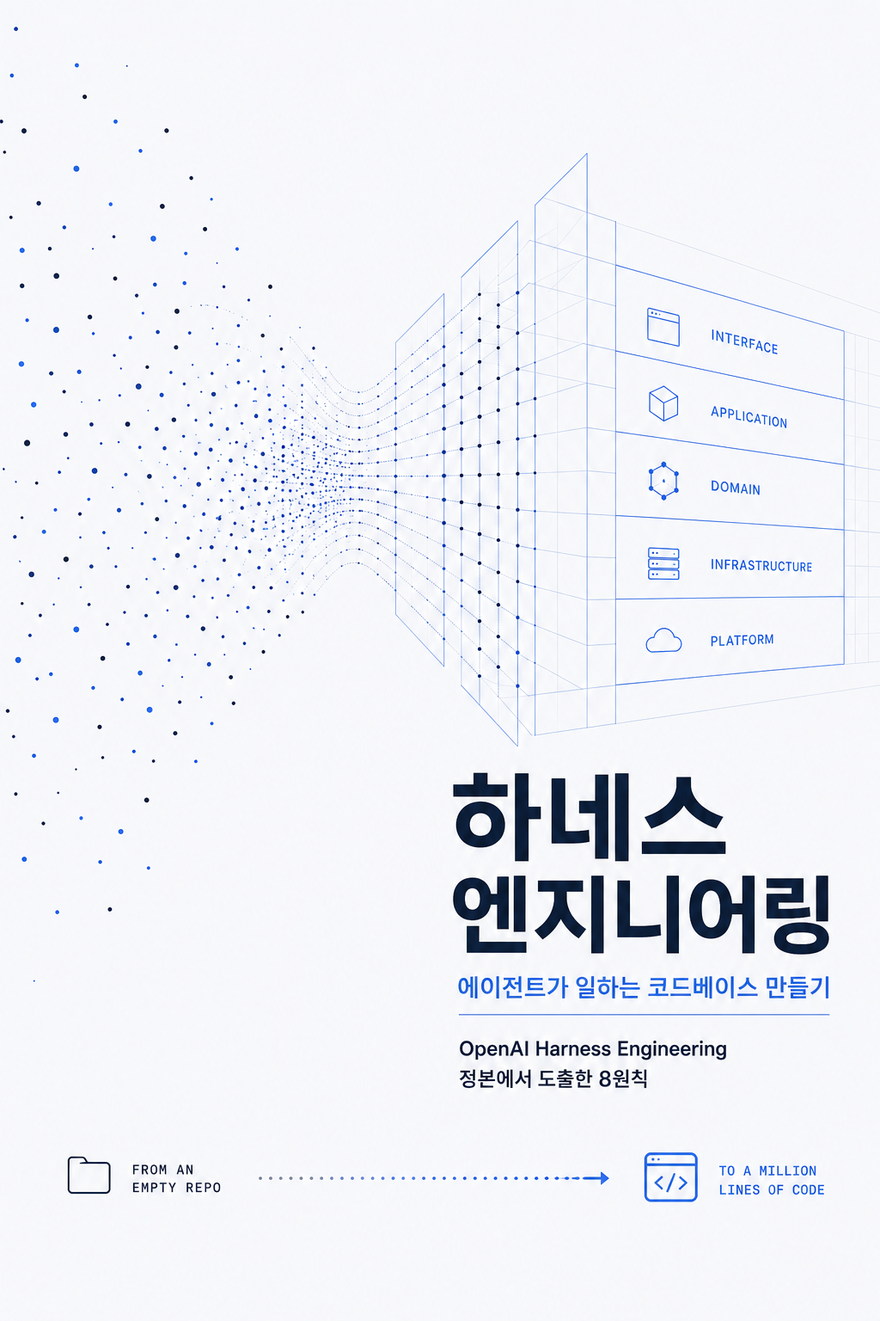
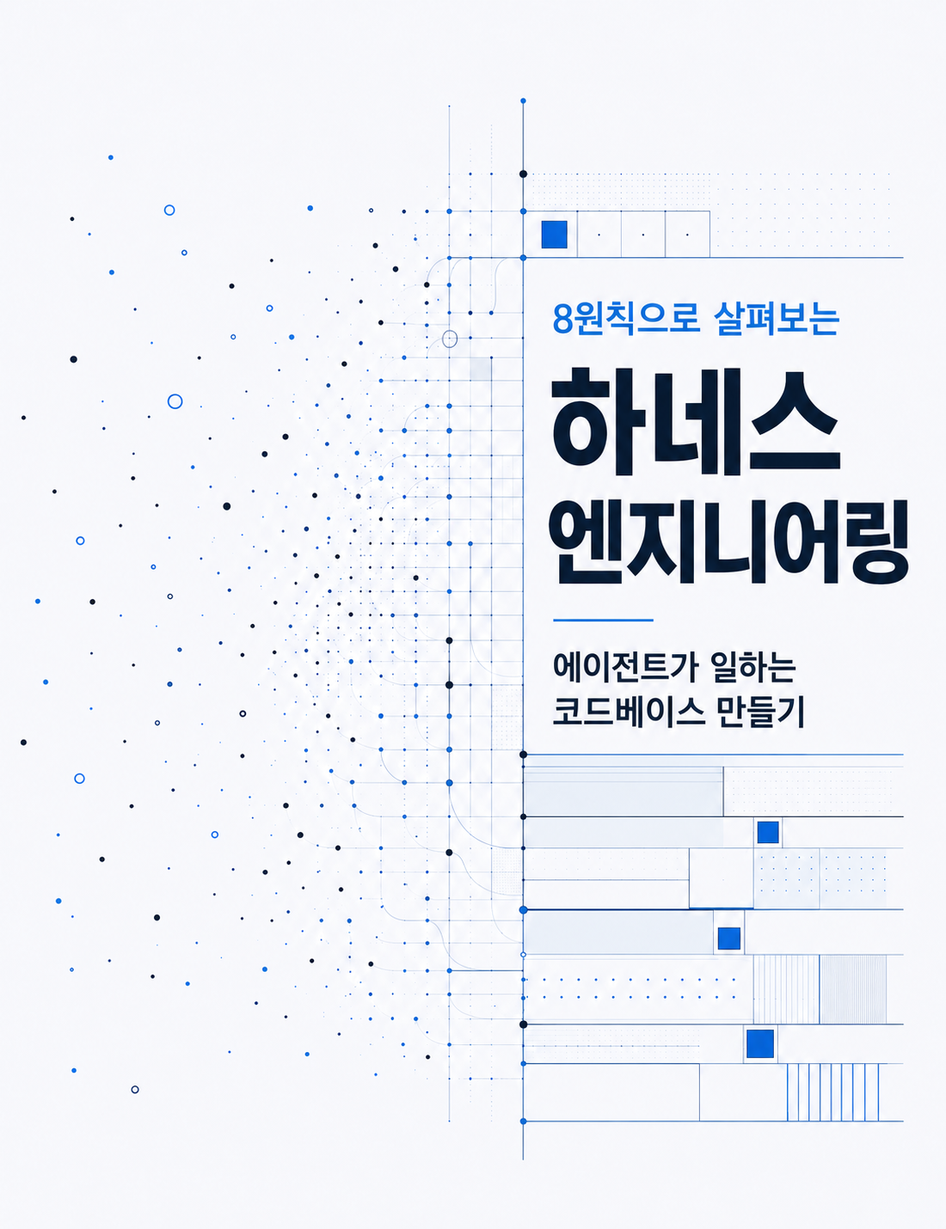
책 제목 '8원칙으로 살펴보는 하네스 엔지니어링'으로 통일 + ch01 윤문본 위키독스 재발행
- 제목 변경을 BOOK_PLAN·CLAUDE.md·toc.json·runbook·crosscheck 프롬프트에 일괄 반영
- ch01: 윤문(humanize) 재작업분 반영, ko-KR 원문 링크 추가, crosscheck/humanized 도장 갱신(06-04)
- 표지 프롬프트: 위키독스 10:13 비율 + 키커 2단 록업으로 개정, 표지 PNG 갱신
- verify.py: 공식 링크 정규식이 닫는 괄호를 URL에 포함하던 버그 수정

diff --git a/scripts/crosscheck.py b/scripts/crosscheck.py
@@ -53,7 +53,7 @@ SCHEMA = {
     },
 }
 
-PROMPT_TMPL = """너는 한국어 기술서 **"하네스 엔지니어링 — 에이전트가 일하는 코드베이스 만들기"**(개발자 대상)의 **독립 기술 검수자**다.
+PROMPT_TMPL = """너는 한국어 기술서 **"8원칙으로 살펴보는 하네스 엔지니어링 — 에이전트가 일하는 코드베이스 만들기"**(개발자 대상)의 **독립 기술 검수자**다.
 아래 원고의 **기술적 사실만** 검증하라. 문체·톤·맞춤법은 절대 언급하지 마라.
 
 검증 대상:
@@ -89,7 +89,7 @@ def run_codex(prompt: str, schema_path: str, out_path: str, model: str | None) -
     return proc.returncode, proc.stderr
 
 
-FACTS_PROMPT = """너는 한국어 기술서 "하네스 엔지니어링 — 에이전트가 일하는 코드베이스 만들기"의 **독립 기술 검수자**다.
+FACTS_PROMPT = """너는 한국어 기술서 "8원칙으로 살펴보는 하네스 엔지니어링 — 에이전트가 일하는 코드베이스 만들기"의 **독립 기술 검수자**다.
 아래는 이 책 전체가 사실의 기준으로 삼는 '검증된 사실 레지스트리'다.
 각 사실을 **공식 출처**(openai.com/index/harness-engineering, code.claude.com, modelcontextprotocol.io 등)에 비추어 검증하라.
 특히 하네스 엔지니어링 정본(OpenAI, Ryan Lopopolo, 2026-02-11)의 출처·저자·실험 사실, 그리고 8원칙의 이름·순서가 정본 절과 일치하는지 본다.

diff --git a/scripts/verify.py b/scripts/verify.py
@@ -50,7 +50,7 @@ DENYLIST = [
 OFFICIAL_DOMAINS = re.compile(
     r"https?://(?:openai\.com|"
     r"code\.claude\.com|docs\.claude\.com|modelcontextprotocol\.io|"
-    r"deepwiki\.com|www\.anthropic\.com)\S*")
+    r"deepwiki\.com|www\.anthropic\.com)[^\s)]*")
 
 
 def main():

diff --git a/manuscript/ch01-what-is-harness.md b/manuscript/ch01-what-is-harness.md
@@ -8,52 +8,55 @@ wikidocs_page_id: 363218
 parent_page_id: 363213
 official_links:
   - https://openai.com/index/harness-engineering/
+  - https://openai.com/ko-KR/index/harness-engineering/
   - https://code.claude.com/docs
   - https://modelcontextprotocol.io
 last_verified: 2026-06-02
 crosscheck: "pass"
-crosscheck_date: "2026-06-03"
+crosscheck_date: "2026-06-04"
 humanized: "pass"
-humanized_date: "2026-06-03"
+humanized_date: "2026-06-04"
 wikidocs_image: "applied"
 ---
 
 ## 이 장에서 배우는 것
 
-이 장을 끝내면 "하네스(harness)"가 무엇이고 왜 코딩 에이전트의 신뢰성을 좌우하는지 설명할 수 있습니다. 그리고 이 책 전체를 관통할 질문 하나를 손에 쥐게 됩니다 — *"에이전트가 실패할 때, 나는 프롬프트를 더 세게 써야 하는가, 아니면 에이전트가 일하는 환경을 고쳐야 하는가?"*
+이 장을 끝내면 "하네스(harness)"가 무엇이고, 코딩 에이전트의 신뢰성에 어떻게 영향을 주는지 설명할 수 있습니다. 그리고 이 책 전체를 관통할 질문 하나를 손에 쥐게 됩니다.
+
+_"에이전트가 실패할 때, 나는 프롬프트를 수정해야 하는가, 아니면 에이전트가 일하는 환경을 고쳐야 하는가?"_
 
 ## 핵심 개념
 
-**하네스란, 코딩 에이전트가 안정적으로 일할 수 있도록 설계한 환경 전체다.** 에이전트가 읽고 의지하는 기록 시스템(문서·스키마·계획), 실수를 빌드 단계에서 막는 기계적 불변식(린터·구조적 테스트), 에이전트가 자기 작업을 직접 검증하게 해주는 관측성, 그리고 실패를 스스로 고치게 하는 피드백 루프까지. 모델이 토큰을 뱉는 그 한 번의 호출은 *에이전트*의 몫이고, 그 에이전트가 헛돌지 않게 붙잡아주는 나머지가 전부 하네스입니다.
+**하네스란, 코딩 에이전트가 안정적으로 일할 수 있도록 설계된 환경 전체다.** 에이전트가 읽고 의지하는 기록 시스템(문서·스키마·계획), 실수를 빌드 단계에서 막는 기계적 불변식(린터·구조적 테스트), 에이전트가 자기 작업을 직접 검증하게 해주는 관측성, 그리고 실패를 스스로 고치게 하는 피드백 루프까지. 모델이 토큰을 뱉는 그 한 번의 호출은 *에이전트*가 사용하는 모델의 몫입니다. 하지만 그 모델이 기대대로 동작하게 만드는 일은 하네스가 떠맡습니다.
 
-`harness`는 원래 말에게 씌우는 **마구(馬具)** 입니다. 말의 힘 자체를 만들어내지는 않지만, 그 힘이 엉뚱한 데로 새지 않고 수레를 끄는 방향으로 향하게 잡아줍니다. 코딩 에이전트가 말이라면, 하네스는 그 생산력을 제품이 원하는 방향으로 채널링하는 마구입니다. 모델을 더 똑똑하게 만드는 일이 아니라, 똑똑한 모델이 *제대로 일할 환경*을 만드는 일입니다.
+**harness**는 말에게 씌우는 **마구(馬具)**라는 뜻입니다. 마구는 말의 힘 자체를 만들어내지는 않지만, 말의 힘이 엉뚱한 데로 새지 않고 수레를 끄는 방향으로 향하도록 잡아줍니다. 코딩 에이전트가 사용하는 모델이 말이라면, 하네스는 모델의 능력을 원하는 방향으로 제어해주는 마구인 셈입니다. 즉, 모델을 더 똑똑하게 만드는 일이 아니라, 똑똑한 모델이 *제대로 일할 환경*을 만드는 일입니다.
 
-이 책의 토대는 OpenAI가 공개한 **하네스 엔지니어링(Harness Engineering)** 보고입니다(Ryan Lopopolo, 2026). 한 팀이 빈 git 리포지터리에서 시작해 5개월 동안 사람이 코드 한 줄도 손으로 쓰지 않고 약 100만 줄짜리 제품을 출시했습니다. 모든 코드를 코딩 에이전트(Codex)가 작성했고, 수동 대비 약 1/10 시간이 걸렸다고 합니다. 그들이 내린 핵심 명제가 이 책의 출발점입니다.
+이 책의 토대는 OpenAI가 공개한 **하네스 엔지니어링(Harness Engineering)** 보고입니다(Ryan Lopopolo, 2026). OpenAI의 한 팀이 빈 리포지터리에서 시작해 5개월 동안 사람이 코드 한 줄도 직접 작성하지 않고 약 100만 줄짜리 코드로 이루어진 제품을 구축해 내부 베타로 출시하고 실제로 사용했습니다. 모든 코드를 코딩 에이전트(Codex)가 작성했고, 사람이 직접 코드를 작성하는것 대비 약 1/10 시간이 걸렸다고 합니다. 그들이 내린 핵심 명제가 이 책의 출발점입니다.
 
 > **사람이 조종하고, 에이전트가 실행한다(Humans steer, agents execute).**
 
-즉 사람의 일은 더 이상 코드를 타이핑하는 것이 아니라, **에이전트가 안정적으로 일할 환경을 설계하고, 의도를 명시하고, 피드백 루프를 거는 것**으로 옮겨갑니다. 이 책이 다루는 8원칙은 바로 그 환경, 하네스를 어떻게 설계해야 에이전트가 신뢰할 수 있게 일하는가에 대한 답입니다.
+즉 사람의 일은 더 이상 코드를 작성하는 것이 아니라, **에이전트가 안정적으로 일할 환경을 설계하고, 의도를 명시하고, 피드백 루프를 거는 것**으로 옮겨갑니다. 이 책이 다루는 8원칙은 바로 그 환경, 하네스를 어떻게 설계해야 에이전트가 신뢰할 수 있게 일하는가에 대한 답입니다.
 
-> **도출한 8원칙임을 밝혀둡니다.** OpenAI의 정본은 서술형 글이라 원칙을 번호로 매기지 않습니다. 이 책의 8원칙은 정본의 **원칙을 담은 절들을 선별해** 한 원칙씩 **도출**한 커리큘럼이며, 모든 원칙은 정본의 해당 절에 직접 접지합니다(정본 11개 절 중 8개에서 도출).
+> **8원칙은 OpenAI의 ["하네스 엔지니어링: 에이전트 우선 세계에서 Codex 활용하기"](https://openai.com/ko-KR/index/harness-engineering/)에서 도출했음을 밝혀둡니다.** 원문은 서술형 글이라 원칙을 번호로 매기지 않지만, 이 책의 원문에서 **원칙으로 정의할 수 있는 항목을 선별해** 총 8개의 원칙으로 도출했습니다. 각 원칙은 원문의 글과 매칭됩니다.
 
-![코딩 에이전트를 중심에 두고, 기록 시스템(원칙 3·4)·기계적 불변식(원칙 5)·관측성(원칙 2)·피드백 루프(원칙 1·7·8)가 그 둘레를 감싸는 환경이 하네스다. 모델의 한 번의 호출은 에이전트의 몫이고, 그 둘레가 전부 하네스다.](../assets/diagrams/chatgpt-renders/ch01-what-is-harness.ko.png)
+![코딩 에이전트의 모델을 중심에 두고, 기록 시스템(원칙 3·4)·기계적 불변식(원칙 5)·관측성(원칙 2)·피드백 루프(원칙 1·7·8)가 그 둘레를 감싸는 환경이 하네스입니다. 모델이 입력을 받아 토큰을 생성하는 것 주변이 모두 하네스가 됩니다.](../assets/diagrams/chatgpt-renders/ch01-what-is-harness.ko.png)
 
 ## 왜 중요한가
 
-코딩 에이전트 데모는 거의 항상 됩니다. "이 버그 고쳐줘", "이 기능 추가해줘"라고 하면 그럴듯한 PR이 돌아옵니다. 문제는 그 다음, 규모와 시간입니다.
+코딩 에이전트를 사용해 간단한 데모를 진행할 땐 항상 문제없는 결과를 만들어냅니다. 게다가 "OO 버그 고쳐줘", "ㅁㅁ 기능 추가해줘"라고 자연어로 요청하면 그럴듯하게 수정 후 PR이 생성됩니다. 문제는 그 다음, 규모와 시간이 더해졌을 때 발생합니다.
 
-환경 없이 에이전트에게 코드베이스를 계속 맡기면 이런 일이 벌어집니다:
+특히 잘 구축된 하네스 없이 에이전트에게 코드베이스를 계속 맡기면 이런 일이 벌어집니다:
 
-- 에이전트가 못 보는 곳(채팅 스레드·사람 머릿속·구글 독스)의 결정은 사실상 존재하지 않아, 매번 다른 가정 위에서 코드를 짠다.
-- 거대한 단일 지침 파일은 낡은 규칙들의 무덤이 되고, 에이전트는 무엇이 아직 사실인지 알 수 없다.
-- 문서로만 적어둔 규칙은 강제되지 않아, 무인 장시간 실행 동안 구조가 조용히 무너진다(드리프트).
-- 자기 작업을 검증할 눈(로그·화면·메트릭)이 없어, 에이전트는 고쳤다고 주장하지만 실제로 동작하는지 모른다.
+- 에이전트가 접근할 수 없는 곳(슬랙, 메일, 미팅, 문서)의 결정 사항을 모르기 때문에 매번 다른 가정 위에서 코드를 작성한다
+- 거대한 단일 지침 파일은 낡은 규칙들의 무덤이 되고, 에이전트는 무엇이 최신인지 모르게 된다.
+- 문서로만 적어둔 규칙은 강제되지 않아, 장시간 자율적으로 실행하게 되면 구조가 점진적으로 무너진다.
+- 자기 작업을 검증할 눈(로그·화면·메트릭)이 없어, 에이전트는 고쳤다고 주장하지만 동작을 보장하지 않는다.
 
-이건 모델이 약해서가 아닙니다. 정본의 표현을 빌리면, 초기 진척이 더뎠던 것은 _"Codex의 역량이 부족해서가 아니라 환경이 제대로 갖춰지지 않았기 때문"_ 이었습니다. 에이전트가 실패할 때 "더 분발하라"고 프롬프트를 조이는 대신, "어떤 역량(capability)이 빠졌는가"를 물어 환경을 고치는 것, 이 전환이 하네스 엔지니어링의 핵심입니다. 데모와 프로덕션을 가르는 것은 모델의 지능이 아니라, 그 지능이 일하는 환경의 견고함입니다.
+이건 모델이 덜 발전해서 벌어지는 일이 아닙니다. OpenAI의 원문 속 표현을 빌리면, 초기 진척이 더딘것은 _"Codex의 역량이 부족해서가 아니라 환경이 제대로 갖춰지지 않았기 때문"_ 입니다. 에이전트가 실패할 때 "더 분발하라"고 프롬프트를 수정하는 대신, 에이전트가 일을 잘하기 위해 "어떤 역량(capability)이 필요한지"를 물어 환경을 고치는 것, 이 전환이 하네스 엔지니어링의 핵심입니다. 간단한 데모를 만들 때 코딩 에이전트를 쓰는 것과 프로덕션 수준의 제품을 만들 때 쓰는 것, 이 둘을 가르는 기준은 모델의 지능이 아니라 그 지능이 일하는 환경의 견고함입니다.
 
 ## 하네스에 적용하기
 
-"환경을 설계한다"는 말은 추상적으로 들리지만, 실은 에이전트가 읽고 따를 수 있는 **구체적인 아티팩트**를 리포지터리에 두는 일입니다. 정본이 빈 레포에서 갖춰 나간 것들을 의사 구조로 보면 이렇습니다.
+"환경을 설계한다"는 말은 추상적으로 들리지만, 실은 에이전트가 읽고 따를 수 있는 **구체적인 아티팩트**를 리포지터리에 두는 일입니다. 원문이 빈 레포에서 시작해 환경을 갖춰 나간 것을 간략한 구조로 보면 이렇습니다.
 
 ```text
 AGENTS.md            # 약 100줄. 백과사전이 아니라 '맵' — 어디에 무엇이 있는지     (원칙 3)
@@ -66,26 +69,26 @@ docs/
 <관측성: 로그·메트릭·화면>  # 에이전트가 자기 작업을 직접 검증                     (원칙 2)
 ```
 
-핵심은 무엇 하나를 *얼마나 잘 쓰느냐*가 아니라, 이 환경 전체가 에이전트가 못 보는 지식을 없애고, 어겨선 안 될 규칙을 기계가 막고, 결과를 스스로 확인하게 만든다는 점입니다. 8원칙은 이 환경을 빠짐없이 갖추기 위한 좌표이고, 2부에서 한 장씩 분해합니다.
+핵심은 코딩 에이전트가 사용자의 요청을 *얼마나 잘 따르냐*가 아니라, 코딩 에이전트가 볼 수 없는 지식을 없애고, 어겨선 안 될 규칙을 기계적으로 막고, 결과를 스스로 확인하게 만든다는 점입니다. 8원칙은 이 환경을 빠짐없이 갖추기 위한 기준이 되는데, 2부에서 한 원칙 씩 자세히 살펴보도록 하겠습니다.
 
-**이 레포가 곧 살아있는 예시입니다.** 지금 읽고 있는 이 책 자체가 하나의 하네스로 집필됩니다. 진입점은 `CLAUDE.md`가, 구조는 `docs/toc.json`이, 사실은 `docs/verified-facts.md`가, 규칙 강제는 `scripts/verify.py`가, 교차검증은 codex가 책임지고, 모델(저자 Claude)은 주로 "문장을 쓰는" 실행 지점에 들어갑니다. 4부에서 이 하네스를 직접 해부하고 8원칙으로 채점(L1→L5)합니다.
+**이 책은 OpenAI의 원문을 바탕으로 정리한 8원칙을 이용해 작성되었습니다. 이 레포가 8원칙의 살아있는 예시입니다.** 진입점은 `CLAUDE.md`, 구조는 `docs/toc.json`, 사실은 `docs/verified-facts.md`, 규칙 강제는 `scripts/verify.py`, 교차검증은 Codex, Claude는 주로 "문장을 쓰는" 실행 지점에 들어갑니다. 4부에서 이 책이 쓰여지는 환경인 하네스를 직접 해부하고 8원칙을 기준으로 평가해 하네스의 성숙도를 L1에서 L5 사이의 값으로 표현해보겠습니다.
 
-> **이 책의 러닝 예제 — 빈 레포에서 키우는 샘플 프로젝트.** 앞으로 작은 프로젝트를 빈 리포지터리(하네스 성숙도 L1)에서 시작해, 원칙을 하나씩 적용하며 에이전트가 안정적으로 일하는 코드베이스(L5)로 키워 갑니다. 정본의 "빈 레포 → 100만 줄" 서사를 독자 규모로 따라가며, 매 장 끝에서 성숙도 점수가 어떻게 오르는지 확인합니다.
+> 이 책의 예제는 빈 레포에서 하네스 성숙도 L1에서 시작해 8원칙을 하나씩 적용해가며 에이전트가 안정적으로 일하는 코드베이스(L5)로 키워 가겠습니다. 원문의 "빈 레포 → 100만 줄" 서사를 책의 분량에 맞춰 조절하되 원칙을 이해하고 활용할 수 있게 만드는걸 목표로 하고 있습니다.
 
 ## 안티패턴과 함정
 
-- **"프롬프트를 더 세게":** 에이전트가 헤맬 때마다 지침을 더 욱여넣는 것. 빠진 것은 보통 프롬프트가 아니라 _역량_(에이전트가 읽을 문서, 강제할 불변식, 검증할 눈)입니다. 실패는 환경을 고치라는 신호입니다(원칙 1·2).
+- **"프롬프트 수정":** 에이전트가 헤맬 때마다 지침을 수정하는 것. 빠진 것은 보통 프롬프트가 아니라 에이전트가 읽을 문서, 강제할 불변식, 검증할 눈입니다. 실패는 환경을 고치라는 신호입니다(원칙 1·2).
 - **거대한 단일 지침 파일:** 모든 규칙을 하나의 거대한 AGENTS.md에 몰아넣는 것. "모든 게 중요하면 아무것도 중요하지 않다"는 말처럼, 에이전트는 의도적 탐색 대신 로컬 패턴 매칭에 빠집니다(원칙 3).
-- **문서로만 규칙을 두기:** "이렇게 하세요"라고 적어두고 강제는 안 하는 것. 강제되지 않는 규칙은 무인 실행에서 반드시 깨집니다. 규칙은 린터·구조적 테스트로 _기계가_ 막아야 합니다(원칙 5).
-- **눈 없는 에이전트:** 로그·화면·메트릭을 에이전트에 노출하지 않은 채 "잘 됐겠지" 하는 것. 검증할 수 없으면 고친 게 아닙니다(원칙 2).
+- **문서로만 규칙을 두기:** "이렇게 하세요"라고 적어두고 강제는 안 하는 것. 강제되지 않는 규칙은 자율적으로 동작하는 환경에서는 반드시 깨집니다. 규칙은 린터와 구조적 테스트로 기계적으로 막아야 합니다(원칙 5).
+- **눈 없는 에이전트:** 로그, 화면, 메트릭을 에이전트에 노출하지 않은 채 "잘 됐겠지" 하는 것. 검증할 수 없으면 고친 게 아닙니다(원칙 2).
 
 ## 핵심 정리 / 체크리스트
 
-- [ ] 하네스 = 코딩 에이전트가 안정적으로 일하도록 설계한 **환경 전체**(기록 시스템·기계적 불변식·관측성·피드백 루프).
-- [ ] 데모→프로덕션 격차는 모델 지능이 아니라 **환경의 견고함**이 만든다.
-- [ ] 핵심 명제: **사람이 조종하고, 에이전트가 실행한다.** 사람의 일은 코딩이 아니라 환경 설계로 옮겨간다.
-- [ ] 에이전트가 실패하면 물어라: _"프롬프트를 조일 일인가, 빠진 역량을 채울 일인가?"_
-- [ ] 이 책의 8원칙은 OpenAI 하네스 엔지니어링 정본에서 **도출**한 커리큘럼이다(정본은 번호로 명시하지 않음).
+- [ ] 하네스 = 코딩 에이전트가 사용자의 요청을 처리해 안정적으로 일하도록 설계한 모델을 제외한 **환경 전체**(기록 시스템·기계적 불변식·관측성·피드백 루프).
+- [ ] 데모와 프로덕션 제품을 가르는 건 모델 지능이 아니라 **환경의 견고함**입니다.
+- [ ] 핵심 명제는 **사람이 조종하고, 에이전트가 실행한다**입니다. 사람의 일은 코딩이 아니라 환경 설계로 옮겨가고 있습니다.
+- [ ] 에이전트가 실패하면 "프롬프트를 수정할 일인가? 아니면 환경을 개선할 차례인가?"를 묻습니다.
+- [ ] 이 책의 8원칙은 OpenAI 하네스 엔지니어링 원문에서 **도출**한 커리큘럼입니다(원문은 8원칙으로 명시하지 않음).
 
 ## 공식 출처
 

diff --git a/assets/covers/COVER_PROMPTS.md b/assets/covers/COVER_PROMPTS.md
@@ -1,8 +1,9 @@
 # 책 표지 이미지 생성 프롬프트 (ChatGPT / gpt-image-1 용)
 
-> 책: **하네스 엔지니어링 — 에이전트가 일하는 코드베이스 만들기**
+> 책: **8원칙으로 살펴보는 하네스 엔지니어링 — 에이전트가 일하는 코드베이스 만들기**
 > 사용법: 아래 5개 블록 중 하나를 통째로 복사 → ChatGPT(이미지 생성)에 붙여넣기. 각 블록은 독립 완결형(스타일 포함).
-> 비율: **세로 2:3 책 표지**(예: 1024×1536). "portrait book cover" 명시.
+> 비율: **세로 10:13 책 표지**(위키독스 표지 권장 비율, 예: 1000×1300). "portrait book cover, 10:13 aspect ratio" 명시.
+> ⚠ gpt-image-1의 네이티브 세로 사이즈는 1024×1536(2:3)뿐이라 정확히 10:13이 안 나올 수 있음 → 1024×1536으로 생성 후 **상하 크롭으로 10:13(예: 1024×1331)** 맞추기. 크롭을 전제로 상하 여백을 넉넉히 잡도록 각 프롬프트에 명시해 둠.
 
 ## ⚠ 한글 텍스트 주의
 이미지 모델은 한글 글자를 종종 깨뜨립니다. 두 가지 방법:
@@ -10,10 +11,12 @@
 - 또는 프롬프트대로 한글 포함 생성 후, 글자가 깨지면 재시도하거나 텍스트만 후보정.
 
 표지에 들어갈 정확한 텍스트(후보정 시 사용):
+- 키커(작게, 메인 제목 위): **8원칙으로 살펴보는**
 - 메인 제목: **하네스 엔지니어링**
 - 부제: **에이전트가 일하는 코드베이스 만들기**
-- 메타: **OpenAI Harness Engineering 정본에서 도출한 8원칙**
 - 태그라인: **사람이 조종하고, 에이전트가 실행한다**
+
+> 전체 제목은 "8원칙으로 살펴보는 하네스 엔지니어링"이지만, 표지에서는 **키커("8원칙으로 살펴보는") + 메인("하네스 엔지니어링")의 2단 록업**으로 조판해야 가독성이 산다. 한 줄로 욱여넣지 말 것.
 
 공통 브랜드 색: 잉크 #1B2733, 파랑 #2D6CDF, 초록 #36B37E, 빨강 포인트 #E5484D, 라이트 배경 #F7F9FC, 딥 네이비 #0E1A2B.
 공통 미감: 모던 개발자 기술서 표지, 깔끔한 기하·벡터 그래픽, 과한 그라데이션·사진풍·스톡 일러스트 금지, 넉넉한 여백, 제목 가독성 최우선.
@@ -23,16 +26,16 @@
 ## 변형 1 — 조종 → 실행 (Humans steer, agents execute)
 
 ```
-A modern, minimal developer tech-book cover, portrait orientation (2:3 book cover). Clean geometric vector style, generous whitespace, light background (#F7F9FC). Central motif: a single "steering" node at the top (a small abstract control/steering glyph in blue #2D6CDF) from which several smooth flow-lines branch downward and pass through a few rounded code/task blocks rendered in green #36B37E — visually contrasting steering (blue) and execution (green). Confident, trustworthy, high-end O'Reilly-meets-modern aesthetic. Ink color #1B2733 for text. Include the Korean title text large near the top: "하네스 엔지니어링", a subtitle "에이전트가 일하는 코드베이스 만들기", and a bottom tagline "사람이 조종하고, 에이전트가 실행한다". Keep typography crisp and legible; do not let decoration overlap the title. No photographic elements, no busy gradients.
+A modern, minimal developer tech-book cover, portrait orientation, 10:13 aspect ratio book cover (slightly taller than 3:4; keep generous top and bottom margins safe for cropping). Clean geometric vector style, generous whitespace, light background (#F7F9FC). Central motif: a single "steering" node at the top (a small abstract control/steering glyph in blue #2D6CDF) from which several smooth flow-lines branch downward and pass through a few rounded code/task blocks rendered in green #36B37E — visually contrasting steering (blue) and execution (green). Confident, trustworthy, high-end O'Reilly-meets-modern aesthetic. Ink color #1B2733 for text. Title lockup near the top as two tiers: a small kicker line "8원칙으로 살펴보는" above, then the main Korean title very large: "하네스 엔지니어링", followed by a smaller subtitle "에이전트가 일하는 코드베이스 만들기", and a bottom tagline "사람이 조종하고, 에이전트가 실행한다". Keep typography crisp and legible; do not let decoration overlap the title. No photographic elements, no busy gradients.
 ```
-글자 없이 옵션: 위에서 `Include the Korean title text ...` 문장을 빼고 `Leave clear empty space at the top and bottom for title text to be added later.`로 교체.
+글자 없이 옵션: 위에서 `Title lockup near the top ...` 문장을 빼고 `Leave clear empty space at the top and bottom for title text to be added later.`로 교체.
 
 ---
 
 ## 변형 2 — 게이트 파이프라인 (Verification gates)
 
 ```
-A striking, technical developer tech-book cover, portrait orientation (2:3 book cover). Deep navy background (#0E1A2B) with crisp neon-like blue (#2D6CDF) and green (#36B37E) line work. Central motif: a vertical pipeline flowing top-to-bottom in which an artifact passes through 3–4 rectangular "gates" (rounded rectangles); passed gates glow green, a blocked one accented in red (#E5484D). Eight small luminous nodes (representing 8 principles) distributed alongside the pipeline. Modern, high-contrast, engineered feel; clean vector geometry, ample negative space. Title text in white, large near the top: "하네스 엔지니어링", subtitle "에이전트가 일하는 코드베이스 만들기", bottom tagline "사람이 조종하고, 에이전트가 실행한다". Crisp legible typography, no photographic textures.
+A striking, technical developer tech-book cover, portrait orientation, 10:13 aspect ratio book cover (keep generous top and bottom margins safe for cropping). Deep navy background (#0E1A2B) with crisp neon-like blue (#2D6CDF) and green (#36B37E) line work. Central motif: a vertical pipeline flowing top-to-bottom in which an artifact passes through 3–4 rectangular "gates" (rounded rectangles); passed gates glow green, a blocked one accented in red (#E5484D). Eight small luminous nodes (representing the 8 principles) distributed alongside the pipeline. Modern, high-contrast, engineered feel; clean vector geometry, ample negative space. Title text in white near the top as a two-tier lockup: small kicker "8원칙으로 살펴보는" above the large main title "하네스 엔지니어링", subtitle "에이전트가 일하는 코드베이스 만들기", bottom tagline "사람이 조종하고, 에이전트가 실행한다". Crisp legible typography, no photographic textures.
 ```
 글자 없이 옵션: 제목 문장 제거하고 `Leave clean empty bands at top and bottom for later text overlay.` 추가.
 
@@ -41,7 +44,7 @@ A striking, technical developer tech-book cover, portrait orientation (2:3 book 
 ## 변형 3 — 빈 레포에서 구조로 (Empty → structured)
 
 ```
-A minimal, data-visualization-inspired developer tech-book cover, portrait orientation (2:3 book cover). Light background (#F7F9FC), ink (#1B2733) and blue (#2D6CDF) accents. Concept: on one side scattered sparse dots (an empty git repo, chaos); transitioning toward the other side into an ordered grid / layered architecture that converges into clean structure — depicting growth "from an empty repo to a million lines". Elegant, restrained, geometric. Title text placed on the ordered/structured side so it reads as the resolution of chaos→order: "하네스 엔지니어링" large, subtitle "에이전트가 일하는 코드베이스 만들기", and a small meta line "OpenAI Harness Engineering 정본에서 도출한 8원칙". Crisp legible typography, lots of whitespace, no photographic elements.
+A minimal, data-visualization-inspired developer tech-book cover, portrait orientation, 10:13 aspect ratio book cover (keep generous top and bottom margins safe for cropping). Light background (#F7F9FC), ink (#1B2733) and blue (#2D6CDF) accents. Concept: on one side scattered sparse dots (an empty git repo, chaos); transitioning toward the other side into an ordered grid / layered architecture that converges into clean structure — depicting growth "from an empty repo to a million lines". Elegant, restrained, geometric. Title lockup placed on the ordered/structured side so it reads as the resolution of chaos→order: small kicker "8원칙으로 살펴보는" above the large main title "하네스 엔지니어링", with subtitle "에이전트가 일하는 코드베이스 만들기" below. Crisp legible typography, lots of whitespace, no photographic elements.
 ```
 글자 없이 옵션: 제목 문장 빼고 `Reserve a clean area on the structured side for title text to be added later.` 추가.
 
@@ -50,7 +53,7 @@ A minimal, data-visualization-inspired developer tech-book cover, portrait orien
 ## 변형 4 — 타이포 중심 미니멀 (Typographic hero)
 
 ```
-A minimalist typographic developer tech-book cover, portrait orientation (2:3 book cover). White / very light background (#F7F9FC), ink text (#1B2733), a single blue accent (#2D6CDF). The cover is almost pure typography: the Korean title "하네스 엔지니어링" set very large across two lines, dominating the composition, with one syllable or word accented in blue. In the background, only a faint pair of parallel rails/guide-lines gently curving (a subtle "harness/guide rail" motif), very low contrast. Subtitle "에이전트가 일하는 코드베이스 만들기" smaller below, a bottom tagline "사람이 조종하고, 에이전트가 실행한다", and a small meta "OpenAI Harness Engineering 정본에서 도출한 8원칙". Restrained, premium, like a modern O'Reilly cover. Decoration minimal; typographic hierarchy is the whole design. Perfectly legible text, no clutter.
+A minimalist typographic developer tech-book cover, portrait orientation, 10:13 aspect ratio book cover (keep generous top and bottom margins safe for cropping). White / very light background (#F7F9FC), ink text (#1B2733), a single blue accent (#2D6CDF). The cover is almost pure typography: a small kicker line "8원칙으로 살펴보는" sitting above the main Korean title "하네스 엔지니어링" set very large across two lines, dominating the composition, with one syllable or word accented in blue. The kicker may carry a subtle blue numeral "8" treatment. In the background, only a faint pair of parallel rails/guide-lines gently curving (a subtle "harness/guide rail" motif), very low contrast. Subtitle "에이전트가 일하는 코드베이스 만들기" smaller below, and a bottom tagline "사람이 조종하고, 에이전트가 실행한다". Restrained, premium, like a modern O'Reilly cover. Decoration minimal; typographic hierarchy is the whole design. Perfectly legible text, no clutter.
 ```
 글자 없이 옵션: 이 변형은 타이포가 핵심이라 "글자 없이"는 권하지 않음(필요하면 배경 레일 모티프만: `Only the faint curved parallel rails on a light background, no text.`).
 
@@ -59,13 +62,14 @@ A minimalist typographic developer tech-book cover, portrait orientation (2:3 bo
 ## 변형 5 — 자율 루프 (The encoded autonomy loop)
 
 ```
-A clean, conceptual developer tech-book cover, portrait orientation (2:3 book cover). Choose high contrast (either light #F7F9FC or deep #0E1A2B background). Central motif: a closed circular loop / orbit in blue (#2D6CDF), with small nodes along it representing stages (verify, recover, execute) — some nodes green (#36B37E) for "passed", one red (#E5484D) accent point. At one point on the loop, a distinct "human steering" node highlighted with a dashed blue outline. The unbroken loop conveys autonomy; the human node conveys control. Geometric, balanced, modern. Title text in the open space above/below the loop: "하네스 엔지니어링" large, subtitle "에이전트가 일하는 코드베이스 만들기", bottom tagline "사람이 조종하고, 에이전트가 실행한다". Crisp legible typography, generous whitespace, no photographic elements.
+A clean, conceptual developer tech-book cover, portrait orientation, 10:13 aspect ratio book cover (keep generous top and bottom margins safe for cropping). Choose high contrast (either light #F7F9FC or deep #0E1A2B background). Central motif: a closed circular loop / orbit in blue (#2D6CDF), with eight small nodes along it representing the 8 principles — some nodes green (#36B37E) for "passed", one red (#E5484D) accent point. At one point on the loop, a distinct "human steering" node highlighted with a dashed blue outline. The unbroken loop conveys autonomy; the human node conveys control. Geometric, balanced, modern. Title lockup in the open space above the loop: small kicker "8원칙으로 살펴보는" above the large main title "하네스 엔지니어링", subtitle "에이전트가 일하는 코드베이스 만들기", bottom tagline "사람이 조종하고, 에이전트가 실행한다". Crisp legible typography, generous whitespace, no photographic elements.
 ```
 글자 없이 옵션: 제목 문장 제거하고 `Center the loop with clean empty margins above and below for later text.` 추가.
 
 ---
 
 ### 생성 팁
-- 비율이 안 맞으면 "make it a tall portrait 2:3 book cover, 1024×1536"를 덧붙이기.
-- 한글이 깨지면: (1) 같은 프롬프트로 1~2회 재생성, (2) 그래도 깨지면 "글자 없이" 옵션으로 배경만 뽑고 텍스트는 디자인 툴에서 얹기.
+- gpt-image-1은 10:13을 직접 지원하지 않음 → **1024×1536(세로)으로 생성 → 상하 크롭해 10:13(예: 1024×1331)** 으로 마감. 프롬프트의 "generous top/bottom margins" 덕에 크롭해도 구도가 살아야 정상.
+- 위키독스 업로드용 최종 크기 예: 1000×1300 (또는 500×650).
+- 한글이 깨지면: (1) 같은 프롬프트로 1~2회 재생성, (2) 그래도 깨지면 "글자 없이" 옵션으로 배경만 뽑고 텍스트는 디자인 툴에서 얹기. 특히 키커("8원칙으로 살펴보는")는 작은 글자라 깨지기 쉬움 — 후보정 1순위.
 - 5개를 만든 뒤 마음에 드는 1개를 골라 `assets/covers/`에 저장하면 발행 때 책 표지로 쓸 수 있음.

diff --git a/CLAUDE.md b/CLAUDE.md
@@ -1,7 +1,7 @@
 # CLAUDE.md — 에이전트 진입점
 
 > **이 레포는 책 한 권을 집필·출판하는 프로젝트다.** 코드가 아니라 원고가 산출물이다.
-> 책: **"하네스 엔지니어링 — 에이전트가 일하는 코드베이스 만들기"** (에이전트/LLM 앱 개발자 대상) → 위키독스(WikiDocs)에 발행.
+> 책: **"8원칙으로 살펴보는 하네스 엔지니어링 — 에이전트가 일하는 코드베이스 만들기"** (에이전트/LLM 앱 개발자 대상) → 위키독스(WikiDocs)에 발행.
 > OpenAI의 *Harness Engineering* 정본(Ryan Lopopolo, 2026)을 **8원칙으로 도출**해 한 장씩 풀고, 빈 레포에서 시작한 샘플 프로젝트를 원칙마다 키운다.
 > 메타: **이 레포 자체가 하네스 엔지니어링 원칙으로 만든 하네스 예시**다. 4부 케이스 스터디에서 스스로를 해부·채점한다.
 > 새 세션은 이 파일부터 읽고, 막히면 아래 "지도"의 해당 문서로 점프한다.

diff --git a/docs/publishing-runbook.md b/docs/publishing-runbook.md
@@ -23,7 +23,7 @@ mcp__wikidocs__create_book(subject, summary, open_yn="N")  →  book_id
 ```
 
 - `subject`/`summary`/`open_yn` 값은 `docs/toc.json`의 `book` 블록 사용
-  (subject = "하네스 엔지니어링 — 에이전트가 일하는 코드베이스 만들기").
+  (subject = "8원칙으로 살펴보는 하네스 엔지니어링 — 에이전트가 일하는 코드베이스 만들기").
 - 받은 `book_id`를 `docs/toc.json`의 `wikidocs_book_id`에 기록 + 커밋.
 - **초안은 비공개(`open_yn="N"`)**. 완성 후 마지막에 공개 전환.
 

diff --git a/BOOK_PLAN.md b/BOOK_PLAN.md
@@ -1,4 +1,4 @@
-# 하네스 엔지니어링 — 에이전트가 일하는 코드베이스 만들기 (책 집필 계획서)
+# 8원칙으로 살펴보는 하네스 엔지니어링 — 에이전트가 일하는 코드베이스 만들기 (책 집필 계획서)
 
 > 에이전트/LLM 앱 개발자 대상. OpenAI의 **Harness Engineering** 정본을 8원칙으로 도출해 한 장씩 풀어
 > "에이전트한테 시켰더니 엉망이 되는 코드베이스"를 **에이전트가 안정적으로 일하는 하네스**로 바꾸는 법을 가르친다.
